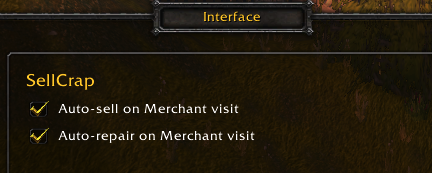
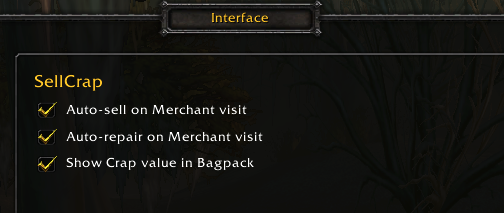
Various refactorings

diff --git a/README.md b/README.md
@@ -9,5 +9,8 @@ You may optionally enable automatic selling/repairing upon opening the merchant 
 #### Chat Message
 ![Alt text](exampleImages/chat-message.png)
 
+### Bag Crap Value
+![Alt text](exampleImages/bag-crapValue.png)
+
 #### Interface Settings
 ![Alt text](exampleImages/interface-settings.png)
